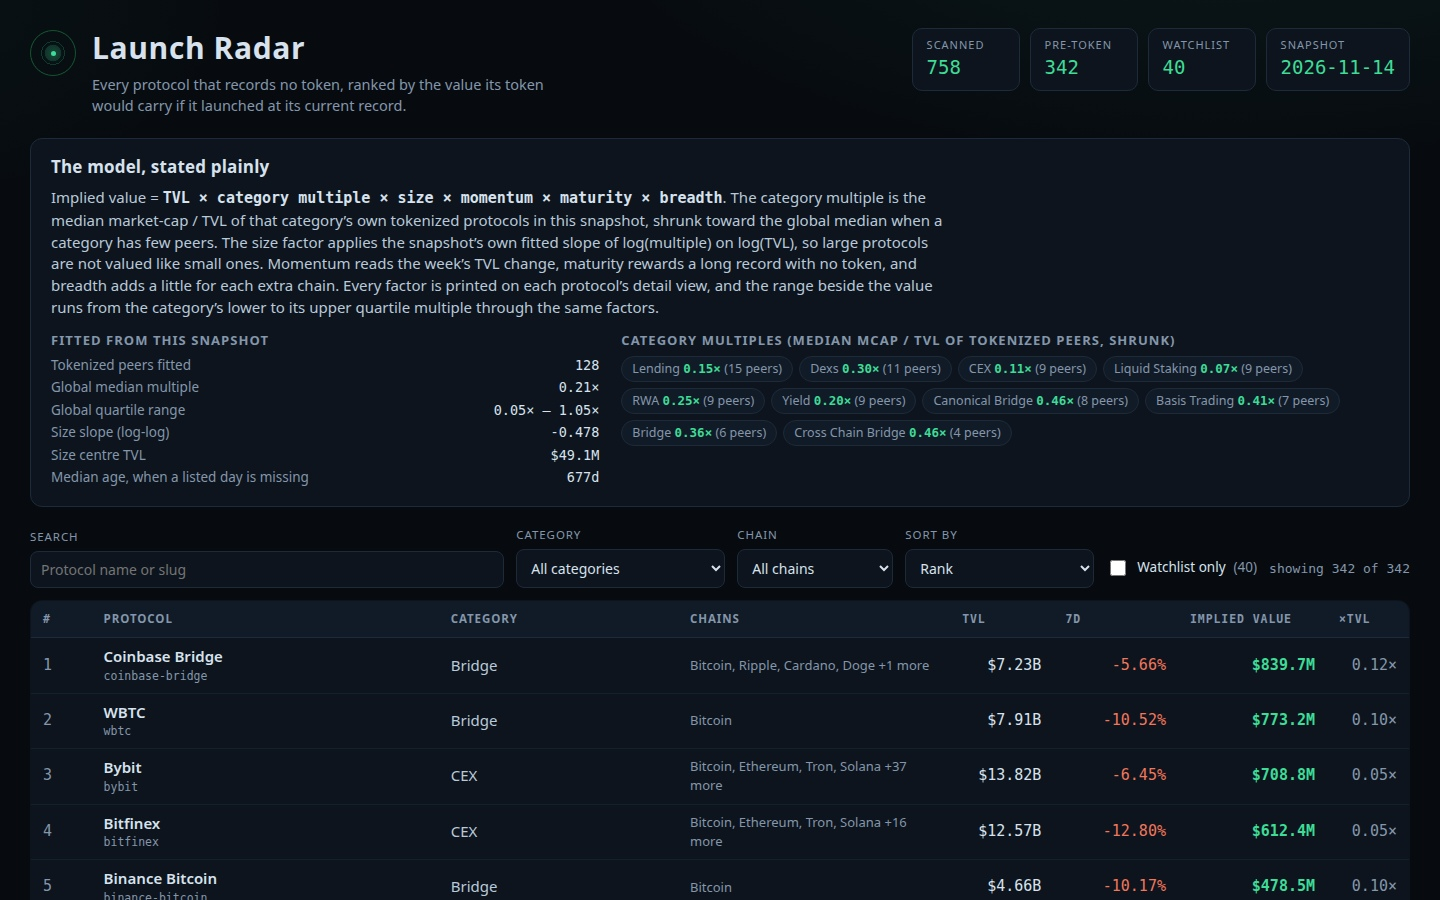
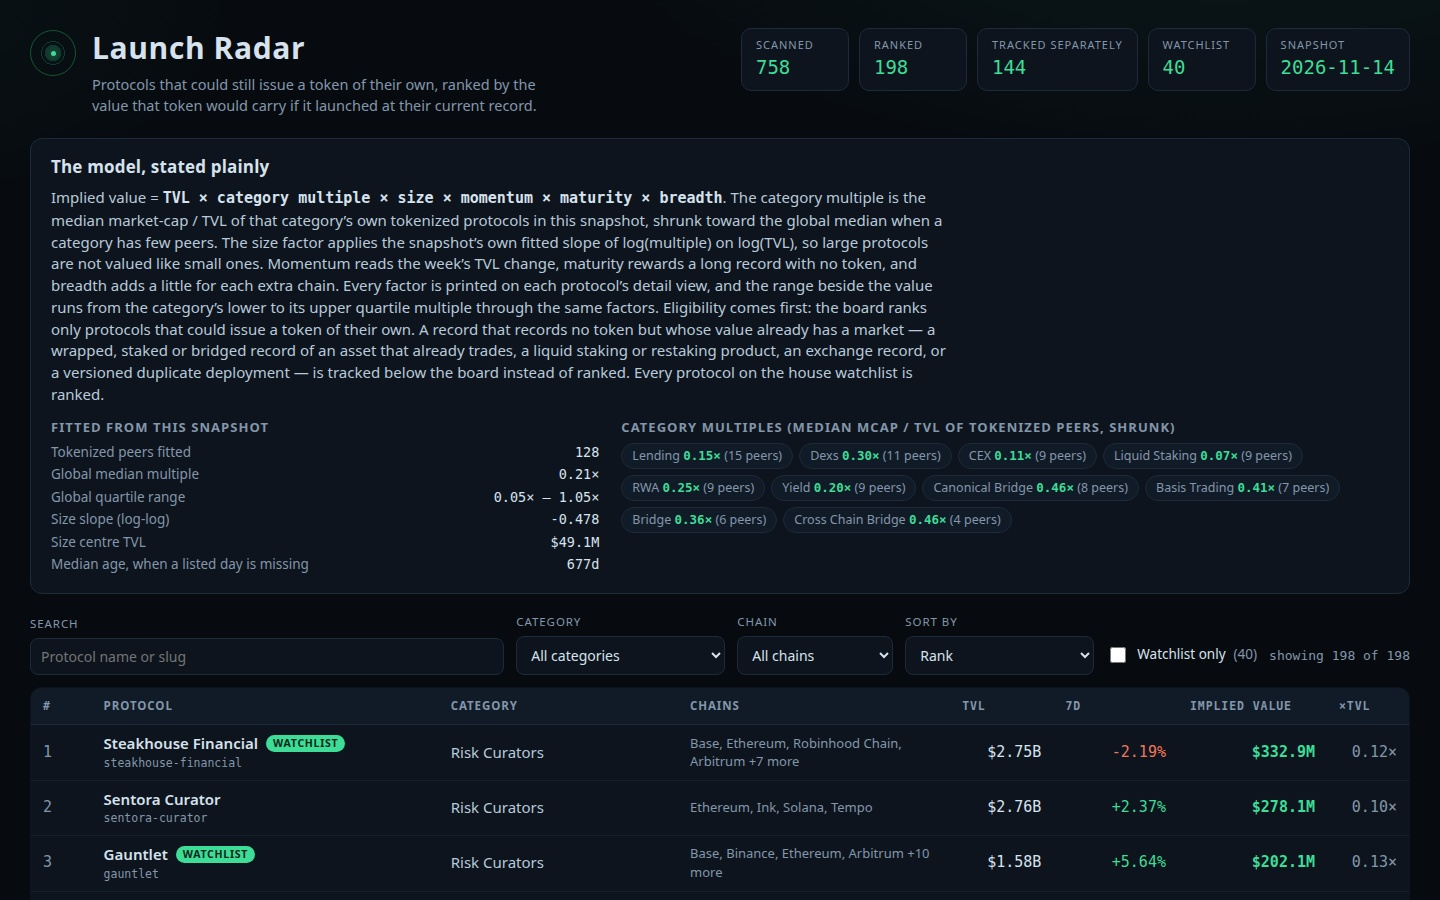
Rank launch candidates only: wrapped/bridged, staking-product and exchange records tracked separately
The board ranked every record with no token, which put wrapped and bridged
records (WBTC, Coinbase Bridge) and exchange records (Bybit, Bitfinex) on
top. The model now splits no-token records by an eligibility rule that reads
only snapshot fields: category (Bridge, Canonical Bridge, Liquid Staking,
Liquid Restaking, Restaked BTC, CEX), a wrapped/staked/staking whole word or
a version suffix in the name, or an exchange name prefix. 144 records move
to a tracked-not-ranked list with plain-word reasons in data.js and a new
dashboard section; 198 launch candidates are ranked, Steakhouse Financial
first. Watchlist membership always wins, so all 40 watchlist slugs stay
ranked. Screenshots re-shot from the rebuilt output.

diff --git a/lib/model.ts b/lib/model.ts
@@ -23,10 +23,15 @@
 //   with no listed day is given the snapshot's median age.
 // - breadth_factor: 1 + 0.04 for each chain past the first, capped at eight extra chains.
 //
-// The board ranks every protocol that records no token (342 in this snapshot), watchlist
-// members included, by implied value. Tokenized protocols never appear as rows: they are
-// the comparables the multiples are learned from, and the dashboard shows the largest of
-// them separately as the market's own reference points.
+// The board ranks the launch candidates among the protocols that record no token (342 in
+// this snapshot): the ones that could still issue a token of their own. A no-token record
+// whose value already has a market is tracked, not ranked (see trackedReason): a wrapped,
+// staked or bridged record of an asset that already trades, a liquid staking or restaking
+// product of a tokenized protocol, an exchange record, or a versioned deployment of a
+// protocol family. Watchlist members are always ranked, whatever the rules say.
+// Tokenized protocols never appear as rows either: they are the comparables the multiples
+// are learned from, and the dashboard shows the largest of them separately as the market's
+// own reference points.
 
 /** The snapshot's protocol entry: exactly the ten fields the sealed input carries. */
 export interface SnapshotProtocol {
@@ -103,6 +108,15 @@ export interface BoardRow {
 /** One row as the dashboard carries it: the board row plus nothing it cannot recompute. */
 export interface RadarRow extends BoardRow {}
 
+/** A no-token record the board tracks but does not rank, with the reason in plain words. */
+export interface TrackedRow {
+  slug: string;
+  name: string;
+  category: string | null;
+  tvl_usd: number;
+  reason: string;
+}
+
 /** A tokenized protocol shown as a market reference: its own traded value, not a model's. */
 export interface LiveRow {
   slug: string;
@@ -120,9 +134,10 @@ export interface RadarData {
   as_of: string;
   source: string;
   floor_usd: number;
-  counts: { scanned: number; pre_token: number; watchlist: number; tokenized: number };
+  counts: { scanned: number; pre_token: number; candidates: number; tracked: number; watchlist: number; tokenized: number };
   fit: ModelFit;
   rows: RadarRow[];
+  tracked: TrackedRow[];
   live: LiveRow[];
 }
 
@@ -152,6 +167,38 @@ export function ageDays(asOf: string, listedAt: string | null): number | null {
 /** Whether a protocol records no token at all: no market cap, no CoinGecko id, no symbol. */
 export function isPreToken(p: SnapshotProtocol): boolean {
   return p.mcap_usd === null && p.gecko_id === null && p.symbol === null;
+}
+
+/** The exchanges whose name at the head of a record marks it as the exchange's own record. */
+const EXCHANGE_PREFIXES = ['Binance', 'Coinbase', 'Bybit', 'Kraken', 'Bitget', 'OKX', 'Bitfinex', 'Gemini'];
+/** A whole word in a name that marks a wrapped or staked product of another asset. */
+const WRAPPED_WORD = /\b(wrapped|staked|staking)\b/i;
+/** A version marker at the end of a name: a space, then V2, v3, 2.0 and the like. */
+const VERSION_SUFFIX = /\s(?:V\d+(?:\.\d+)?|v\d+(?:\.\d+)?|\d+\.\d+)$/;
+
+/**
+ * Why a protocol that records no token is tracked but not ranked, or null when it is a
+ * launch candidate: a protocol that could still issue a token of its own. The rules read
+ * only the snapshot's own fields - the record's category and name - and mirror the shape
+ * of the house watchlist's own exclusions. A wrapped, staked or bridged record's value is
+ * the underlying asset's, which already trades; an exchange record is a balance sheet,
+ * not a protocol awaiting a launch; a versioned deployment is one protocol family counted
+ * twice. Watchlist membership overrides every rule here: buildBoard ranks those regardless.
+ */
+export function trackedReason(p: SnapshotProtocol): string | null {
+  const c = p.category ?? '';
+  if (c === 'Bridge' || c === 'Canonical Bridge') return 'bridged record of an asset that already trades';
+  if (c === 'Liquid Staking') return 'liquid staking product of a tokenized protocol';
+  if (c === 'Liquid Restaking') return 'liquid restaking product of a tokenized protocol';
+  if (c === 'Restaked BTC') return 'restaked BTC product of an asset that already trades';
+  if (c === 'CEX') return 'exchange record';
+  if (WRAPPED_WORD.test(p.name)) return 'wrapped or staked product of an asset that already trades';
+  if (VERSION_SUFFIX.test(p.name)) return 'a versioned deployment record, not a protocol of its own';
+  const lower = p.name.toLowerCase();
+  for (const ex of EXCHANGE_PREFIXES) {
+    if (lower.startsWith(ex.toLowerCase())) return 'exchange record';
+  }
+  return null;
 }
 
 /** The median of a sorted, non-empty list. */
@@ -570,7 +617,7 @@ export function farmSteps(p: SnapshotProtocol, age: number | null): string[] {
 export function buildBoard(snapshot: Snapshot, fit: ModelFit): BoardRow[] {
   const watch = new Set(snapshot.watchlist);
   const scored = snapshot.protocols
-    .filter(isPreToken)
+    .filter((p) => isPreToken(p) && (watch.has(p.slug) || trackedReason(p) === null))
     .map((p) => {
       const v = impliedValue(p, snapshot.as_of, fit);
       return { p, ...v };
@@ -609,6 +656,17 @@ export function buildBoard(snapshot: Snapshot, fit: ModelFit): BoardRow[] {
   return rows;
 }
 
+/** The no-token records the board tracks but does not rank, largest TVL first, with reasons. */
+export function trackedRows(snapshot: Snapshot): TrackedRow[] {
+  const watch = new Set(snapshot.watchlist);
+  return snapshot.protocols
+    .filter((p) => isPreToken(p) && !watch.has(p.slug))
+    .map((p) => ({ p, reason: trackedReason(p) }))
+    .filter((x): x is { p: SnapshotProtocol; reason: string } => x.reason !== null)
+    .sort((a, b) => b.p.tvl_usd - a.p.tvl_usd || (a.p.slug < b.p.slug ? -1 : a.p.slug > b.p.slug ? 1 : 0))
+    .map(({ p, reason }) => ({ slug: p.slug, name: p.name, category: p.category, tvl_usd: p.tvl_usd, reason }));
+}
+
 /** The largest tokenized protocols, by market cap: the market's own reference points. */
 export function liveRows(snapshot: Snapshot): LiveRow[] {
   return snapshot.protocols
@@ -631,18 +689,23 @@ export function liveRows(snapshot: Snapshot): LiveRow[] {
 export function buildRadar(snapshot: Snapshot): { board: BoardRow[]; radar: RadarData } {
   const fit = fitModel(snapshot);
   const board = buildBoard(snapshot, fit);
+  const tracked = trackedRows(snapshot);
+  const preToken = snapshot.protocols.filter(isPreToken).length;
   const radar: RadarData = {
     as_of: snapshot.as_of,
     source: snapshot.source,
     floor_usd: snapshot.floor_usd,
     counts: {
       scanned: snapshot.protocols.length,
-      pre_token: board.length,
+      pre_token: preToken,
+      candidates: board.length,
+      tracked: tracked.length,
       watchlist: snapshot.watchlist.length,
-      tokenized: snapshot.protocols.length - board.length,
+      tokenized: snapshot.protocols.length - preToken,
     },
     fit,
     rows: board,
+    tracked,
     live: liveRows(snapshot),
   };
   return { board, radar };

diff --git a/dashboard/app.js b/dashboard/app.js
@@ -37,7 +37,8 @@
   // ---------- header stats ----------
   document.getElementById('stats').innerHTML =
     '<div><dt>Scanned</dt><dd>' + D.counts.scanned + '</dd></div>' +
-    '<div><dt>Pre-token</dt><dd>' + D.counts.pre_token + '</dd></div>' +
+    '<div><dt>Ranked</dt><dd>' + D.counts.candidates + '</dd></div>' +
+    '<div><dt>Tracked separately</dt><dd>' + D.counts.tracked + '</dd></div>' +
     '<div><dt>Watchlist</dt><dd>' + D.counts.watchlist + '</dd></div>' +
     '<div><dt>Snapshot</dt><dd>' + esc(D.as_of) + '</dd></div>';
   document.getElementById('wl-count').textContent = '(' + D.counts.watchlist + ')';
@@ -51,7 +52,11 @@
     'slope of log(multiple) on log(TVL), so large protocols are not valued like small ones. Momentum reads the week\u2019s TVL ' +
     'change, maturity rewards a long record with no token, and breadth adds a little for each extra chain. ' +
     'Every factor is printed on each protocol\u2019s detail view, and the range beside the value runs from the category\u2019s ' +
-    'lower to its upper quartile multiple through the same factors.';
+    'lower to its upper quartile multiple through the same factors. ' +
+    'Eligibility comes first: the board ranks only protocols that could issue a token of their own. A record that ' +
+    'records no token but whose value already has a market \u2014 a wrapped, staked or bridged record of an asset that ' +
+    'already trades, a liquid staking or restaking product, an exchange record, or a versioned duplicate deployment ' +
+    '\u2014 is tracked below the board instead of ranked. Every protocol on the house watchlist is ranked.';
   document.getElementById('fit-list').innerHTML =
     '<dt>Tokenized peers fitted</dt><dd>' + f.peer_count + '</dd>' +
     '<dt>Global median multiple</dt><dd>' + fmtMult(f.global_multiple) + '</dd>' +
@@ -182,7 +187,7 @@
     detail.innerHTML =
       '<div class="detail-head"><div>' +
       '<h2>' + esc(r.name) + (r.watchlist ? '<span class="badge">WATCHLIST</span>' : '') + '</h2>' +
-      '<p class="sub">Rank #' + r.rank + ' of ' + rows.length + ' pre-token protocols \u00b7 ' + esc(r.category || 'Uncategorized') +
+      '<p class="sub">Rank #' + r.rank + ' of ' + rows.length + ' launch candidates \u00b7 ' + esc(r.category || 'Uncategorized') +
       ' \u00b7 records no token in the snapshot (no market cap, CoinGecko id or symbol)</p></div>' +
       '<button class="close" id="close-detail" type="button">Close</button></div>' +
       '<div class="detail-grid"><div>' +
@@ -224,6 +229,15 @@
     }
   }
 
+  // ---------- tracked, not ranked ----------
+  document.getElementById('tracked-count').textContent = '(' + D.tracked.length + ' records)';
+  document.getElementById('tracked-rows').innerHTML = D.tracked.map(function (t) {
+    return '<tr><td><span class="pname">' + esc(t.name) + '</span><span class="slug">' + esc(t.slug) + '</span></td>' +
+      '<td class="cat">' + esc(t.category || 'Uncategorized') + '</td>' +
+      '<td class="num">' + fmtUsd(t.tvl_usd) + '</td>' +
+      '<td class="reason">' + esc(t.reason) + '</td></tr>';
+  }).join('');
+
   // ---------- live comparables ----------
   document.getElementById('live').innerHTML = D.live.map(function (p) {
     return '<div class="live-card"><span class="n">' + esc(p.name) + '</span>' +
@@ -235,7 +249,8 @@
 
   document.getElementById('foot-note').textContent =
     'Board built from ' + D.source + ': ' + D.counts.scanned + ' protocols scanned, ' + D.counts.pre_token +
-    ' record no token, ' + D.counts.watchlist + ' on the house watchlist at the ' + fmtFull(D.floor_usd) + ' floor.';
+    ' record no token, of which ' + D.counts.candidates + ' are ranked as launch candidates and ' + D.counts.tracked +
+    ' are tracked separately; ' + D.counts.watchlist + ' on the house watchlist at the ' + fmtFull(D.floor_usd) + ' floor.';
 
   render();
   if (state.p && bySlug[state.p]) select(state.p, true);

diff --git a/main.ts b/main.ts
@@ -2,7 +2,8 @@
 //
 // It reads the sealed snapshot from /input/snapshot.json (or --input <file|dir>), fits the
 // launch-value model of lib/model.ts to the snapshot's own tokenized protocols, ranks every
-// protocol that records no token by implied value, and writes the hand-in to /output:
+// launch candidate - a protocol that records no token and could still issue one of its
+// own - by implied value, and writes the hand-in to /output:
 //
 //   board.json    the ranked board the gate reads
 //   data.js       the dashboard's dataset, written beside dashboard/ (not part of it)
@@ -95,7 +96,7 @@ writeFileSync(
 const top = board[0]!;
 const fit = radar.fit;
 process.stdout.write(
-  `launch radar: ${snapshot.protocols.length} protocols scanned, ${snapshot.watchlist.length} on the watchlist, ${board.length} pre-token rows ranked\n` +
+  `launch radar: ${snapshot.protocols.length} protocols scanned, ${snapshot.watchlist.length} on the watchlist, ${board.length} launch candidates ranked, ${radar.tracked.length} records tracked separately\n` +
     `launch radar: model fitted on ${fit.peer_count} tokenized peers: global median multiple ${fit.global_multiple.toFixed(3)}x, size slope ${fit.size_slope.toFixed(3)} around $${Math.round(fit.size_center_tvl).toLocaleString('en-US')} TVL\n` +
     `launch radar: rank 1 is ${top.name} at $${top.implied_value_usd.toLocaleString('en-US')} implied; wrote board.json, data.js, dashboard (${pageFiles.length} files), screenshots (${shots.length} images) and dossier.json to ${out}\n`,
 );

diff --git a/dashboard/index.html b/dashboard/index.html
@@ -12,7 +12,7 @@
     <div class="mark" aria-hidden="true"><span></span></div>
     <div>
       <h1>Launch Radar</h1>
-      <p class="tag">Every protocol that records no token, ranked by the value its token would carry if it launched at its current record.</p>
+      <p class="tag">Protocols that could still issue a token of their own, ranked by the value that token would carry if it launched at their current record.</p>
     </div>
   </div>
   <dl class="stats" id="stats"></dl>
@@ -78,6 +78,22 @@
   </table>
   <p class="empty" id="empty" hidden>No protocol matches those filters. Loosen one and the board fills again.</p>
 </main>
+
+<section class="tracked" aria-label="Tracked, not ranked">
+  <h2>Tracked, not ranked <span class="dim" id="tracked-count"></span></h2>
+  <p class="dim">The radar ranks protocols that could issue a token of their own. Wrapped, staked and bridged records of assets that already trade, and exchange records, are tracked here instead, because their value already has a market.</p>
+  <table class="board tracked-table">
+    <thead>
+      <tr>
+        <th>Protocol</th>
+        <th>Category</th>
+        <th class="num">TVL</th>
+        <th>Why it is tracked, not ranked</th>
+      </tr>
+    </thead>
+    <tbody id="tracked-rows"></tbody>
+  </table>
+</section>
 
 <section class="live" aria-label="Already trading">
   <h2>Already trading — the comparables the multiples are learned from</h2>

diff --git a/dashboard/app.css b/dashboard/app.css
@@ -135,6 +135,12 @@ h1::after { content: ""; display: block; }
 .plan li { margin: 7px 0; max-width: 110ch; }
 .plan li::marker { color: var(--signal); font-family: var(--mono); }
 
+/* tracked, not ranked */
+.tracked { margin-top: 26px; }
+.tracked-table tbody tr { cursor: default; }
+.tracked-table tbody tr:hover { background: none; }
+.tracked-table .reason { color: var(--dim); font-size: 13.5px; }
+
 /* live comparables */
 .live { margin-top: 26px; }
 .live-grid { display: grid; grid-template-columns: repeat(auto-fill, minmax(215px, 1fr)); gap: 10px; margin-top: 10px; }

diff --git a/README.md b/README.md
@@ -4,7 +4,7 @@
 [![rank](https://make.fun/badge/token-radar-01/saidgank/makefun-token-radar/rank.svg)](https://make.fun/bounty/token-radar-01/leaderboard?utm_source=github&utm_medium=readme&utm_campaign=token-radar-01)
 [![reward](https://make.fun/badge/token-radar-01/saidgank/makefun-token-radar/reward.svg)](https://make.fun/bounty/token-radar-01?utm_source=github&utm_medium=readme&utm_campaign=token-radar-01)
 
-Launch Radar: a token launch radar built from the sealed DefiLlama snapshot of 2026-11-14. The program fits a launch-value model to the snapshot's own tokenized protocols — category market-cap/TVL multiples shrunk toward the global median, a log-log size slope learned from the same peers, and momentum, maturity and breadth factors — then ranks all 342 protocols that record no token by implied value, the 40-protocol house watchlist included. Every row carries a five-step farm plan with costs and times, and the offline dashboard shows the board, a factor-by-factor detail view for each protocol, filters and sorts, and the already-trading comparables the multiples were learned from.
+Launch Radar: a token launch radar built from the sealed DefiLlama snapshot of 2026-11-14. The program fits a launch-value model to the snapshot's own tokenized protocols — category market-cap/TVL multiples shrunk toward the global median, a log-log size slope learned from the same peers, and momentum, maturity and breadth factors — then ranks the launch candidates among the 342 protocols that record no token by implied value, the 40-protocol house watchlist included. Records whose value already has a market — wrapped, staked or bridged records of assets that already trade, liquid staking and restaking products, exchange records and versioned duplicate deployments — are tracked separately on the dashboard instead of ranked. Every row carries a five-step farm plan with costs and times, and the offline dashboard shows the board, a factor-by-factor detail view for each protocol, filters and sorts, the tracked-not-ranked list with its reasons, and the already-trading comparables the multiples were learned from.
 
 ## Run it
 
